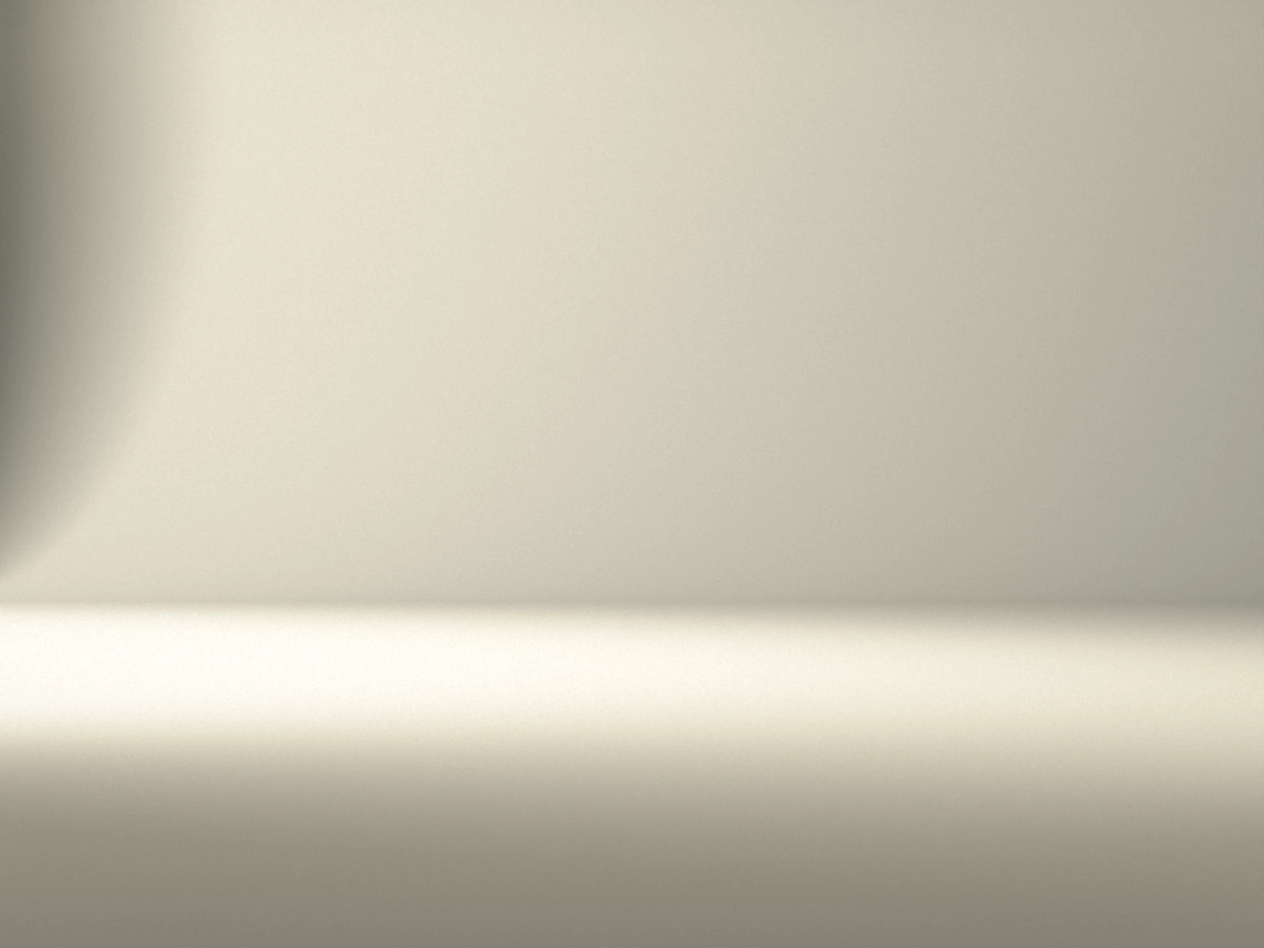
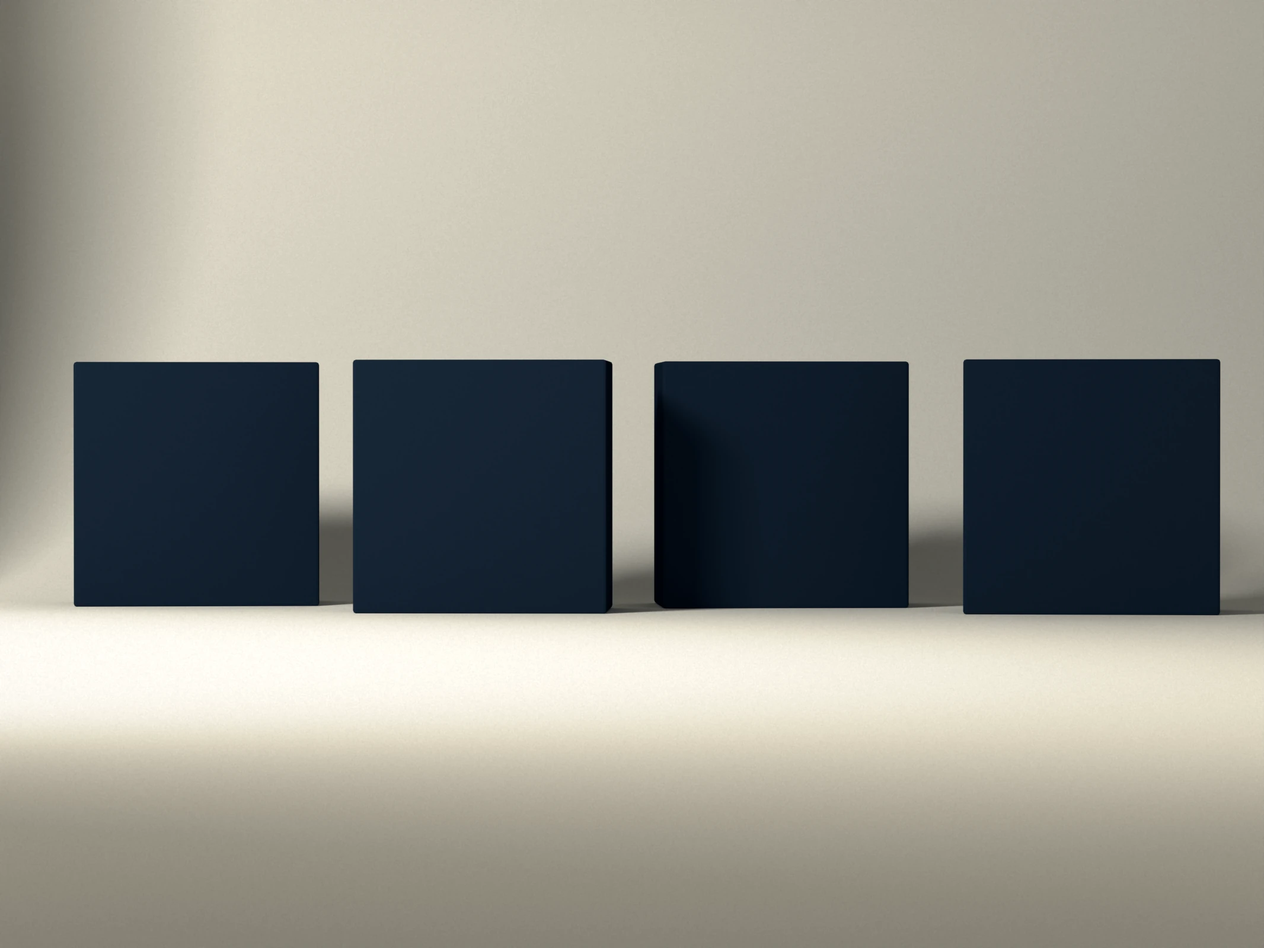
Four Ps: render the movement instead of faking it
The sprite approach had hit its ceiling. It could translate the masses
sideways and nothing else, which is why the motion stayed flat and why
depth kept being cut: measured against Cycles renders of masses actually
moved in depth, transforming a flat sprite scored WORSE than not moving
them at all (1.90 levels vs 1.58 at 0.25m; 20.8 at 1.2m, the smallest move
that reads). So the masses and their shadows are now a 28-frame Cycles
sequence.

That buys three things a sprite could not:

DEPTH. The masses move toward and away from the camera as they repel, and
they now sit at four different depths - a 2.4m spread, about 4.5% of
apparent size - so the row is no longer four identical objects on a rail.
Rotations vary too. Real geometry, not a scaled bitmap.

TRAVEL. They start with 7-11px between faces and end at the approved
spacing, roughly 5x the separation the sprite version could reach without
running the outer masses off the edge of their own plate.

INTERACTING SHADOWS. Every frame is one render, so a mass shadows its
neighbour properly instead of four independent passes being composited and
hoping.

The timing still comes from integrating four like poles on the face gap
rather than from an easing curve, but the range is now wide enough for the
physics to show: faces go 0.10m -> 0.60m, so the force falls ~9x across the
move. FORCE_EXP is 1.4 rather than a true inverse square - at 2.0 the whole
thing is over in the first quarter of the runway. Per-object mobility and
[…]

Changed region(s): [[0.031, 0.375, 1.0, 0.6562]]

diff --git a/assets/kd.js b/assets/kd.js
@@ -186,33 +186,31 @@
 
   // Plate geometry, emitted by the render so the markup and the scroll
   // driver cannot drift from the image they are positioning against.
-  window.KD_PS={"w":2132,"h":1600,"masses":[{"name":"PRODUCT","copy":"What you make.","mass":{"x":99,"y":602,"w":437,"h":435},"shadow":{"x":0,"y":204,"w":2093,"h":1086},"matrix3d":[1.007391,0.005614,0,8e-06,0.001434,1.002004,0,1e-06,0,0,1,0,97.960792,609.016991,0,1],"quad":[[98.0,609.0],[519.4,609.4],[519.7,1028.2],[98.5,1029.3]],"travel":-50.46,"curve":[-0.0,0.0379,0.0751,0.1118,0.148,0.1836,0.2187,0.2533,0.2875,0.3212,0.3544,0.3873,0.4197,0.4518,0.4835,0.5148,0.5457,0.5764,0.6066,0.6366,0.6662,0.6955,0.7246,0.7533,0.7818,0.8099,0.8379,0.8655,0.8929,0.92,0.9469,0.9736,1.0],"phase":0.0,"dscale":0.00465,"ddy":1.45,"dshadow":31.23},{"name":"PRICE","copy":"What you ask.","mass":{"x":603,"y":600,"w":439,"h":440},"shadow":{"x":6,"y":210,"w":2107,"h":1080},"matrix3d":[1.019322,0.005053,0,7e-06,0.001451,1.01439,0,1e-06,0,0,1,0,602.719582,607.717657,0,1],"quad":[[602.7,607.7],[1027.8,608.0],[1027.8,1032.2],[603.0,1033.2]],"travel":-16.63,"curve":[-0.0,0.0299,0.0603,0.091,0.1222,0.1536,0.1852,0.217,0.249,0.281,0.3131,0.3453,0.3774,0.4095,0.4416,0.4737,0.5057,0.5375,0.5693,0.601,0.6326,0.664,0.6953,0.7265,0.7575,0.7884,0.8191,0.8496,0.88,0.9103,0.9404,0.9703,1.0],"phase":0.12,"dscale":-0.00295,"ddy":-0.92,"dshadow":-20.16},{"name":"PLACE","copy":"Where and how it reaches people.","mass":{"x":1095,"y":602,"w":448,"h":434},"shadow":{"x":23,"y":211,"w":2109,"h":1079},"matrix3d":[1.004782,0.00529,0,7e-06,0.001431,0.99966,0,1e-06,0,0,1,0,1111.30807,609.262967,0,1],"quad":[[1111.3,609.3],[1528.6,609.6],[1528.3,1027.6],[1111.3,1028.5]],"travel":16.82,"curve":[0.0,0.0262,0.0534,0.0814,0.1102,0.1397,0.1697,0.2002,0.2311,0.2624,0.2939,0.3257,0.3577,0.3898,0.4221,0.4544,0.4868,0.5192,0.5517,0.5842,0.6166,0.649,0.6814,0.7137,0.7459,0.778,0.81,0.842,0.8738,0.9055,0.9372,0.9686,1.0],"phase":0.07,"dscale":0.00204,"ddy":0.63,"dshadow":13.61},{"name":"PROMOTION","copy":"What you say and signal.","mass":{"x":1595,"y":601,"w":466,"h":438},"shadow":{"x":37,"y":211,"w":2095,"h":1079},"matrix3d":[1.015473,0.00472,0,7e-06,0.001447,1.010838,0,1e-06,0,0,1,0,1626.735594,608.090377,0,1],"quad":[[1626.7,608.1],[2047.6,608.4],[2047.0,1031.2],[1626.4,1032.1]],"travel":50.89,"curve":[0.0,0.0402,0.0795,0.118,0.1556,0.1925,0.2286,0.2641,0.2989,0.3331,0.3667,0.3998,0.4324,0.4644,0.496,0.5271,0.5578,0.588,0.6179,0.6473,0.6764,0.7051,0.7335,0.7615,0.7892,0.8165,0.8436,0.8704,0.8968,0.923,0.9489,0.9746,1.0],"phase":0.02,"dscale":-0.00406,"ddy":-1.26,"dshadow":-27.44}],"anchor":820};
+  window.KD_PS={"w":2132,"h":1600,"n":28,"band":{"x":0,"y":500,"w":2132,"h":720},"anchor":820,"masses":[{"name":"PRODUCT","copy":"What you make."},{"name":"PRICE","copy":"What you ask."},{"name":"PLACE","copy":"Where and how it reaches people."},{"name":"PROMOTION","copy":"What you say and signal."}],"frames":[[[1.00784,0.001433,203.751995,0.007011,1.001476,609.072351,1e-05,1e-06],[0.999722,0.001439,636.4867,-0.003133,1.006032,608.594489,-4e-06,1e-06],[1.008215,0.001436,1073.807998,0.004687,1.003613,608.848262,7e-06,1e-06],[0.990943,0.00144,1512.166691,-0.007835,1.007491,608.441353,-1.1e-05,1e-06]],[[1.006481,0.001431,196.034285,0.007002,1.000126,609.214044,1e-05,1e-06],[0.999722,0.001439,636.4867,-0.003133,1.006032,608.594489,-4e-06,1e-06],[1.008215,0.001436,1073.807998,0.004687,1.003613,608.848262,7e-06,1e-06],[0.991725,0.001444,1517.246471,-0.007841,1.008287,608.357954,-1.1e-05,1e-06]],[[1.005361,0.001429,189.675776,0.006993,0.999013,609.330845,1e-05,1e-06],[0.999722,0.001439,636.4867,-0.003133,1.006032,608.594489,-4e-06,1e-06],[1.008215,0.001436,1073.807998,0.004687,1.003613,608.848262,7e-06,1e-06],[0.993264,0.001443,1527.248201,-0.007853,1.009849,608.193946,-1.1e-05,1e-06]],[[1.004385,0.001428,184.133943,0.006987,0.998043,609.432554,1e-05,1e-06],[0.999722,0.001439,636.4867,-0.003133,1.006032,608.594489,-4e-06,1e-06],[1.007986,0.001435,1074.813305,0.004685,1.003385,608.872151,7e-06,1e-06],[0.994534,0.001447,1535.512025,-0.007863,1.011143,608.058405,-1.1e-05,1e-06]],[[1.003509,0.001426,179.160781,0.00698,0.997172,609.523892,1e-05,1e-06],[0.99983,0.00144,636.223206,-0.003133,1.006142,608.582973,-4e-06,1e-06],[1.007526,0.001434,1076.837771,0.004683,1.002926,608.920217,7e-06,1e-06],[0.99565,0.001449,1542.765713,-0.007872,1.012278,607.939386,-1.1e-05,1e-06]],[[1.002709,0.001425,174.615646,0.006976,0.996376,609.607291,1e-05,1e-06],[1.000463,0.00144,634.684747,-0.003135,1.006778,608.516169,-4e-06,1e-06],[1.007014,0.001433,1079.086273,0.004681,1.002417,608.973575,7e-06,1e-06],[0.996658,0.001449,1549.320986,-0.00788,1.013302,607.831812,-1.1e-05,1e-06]],[[1.001967,0.001424,170.408743,0.00697,0.99564,609.684539,1e-05,1e-06],[1.001386,0.001441,632.443805,-0.003138,1.007707,608.418751,-4e-06,1e-06],[1.006515,0.001433,1081.283944,0.004679,1.00192,609.025788,7e-06,1e-06],[0.997585,0.00145,1555.350413,-0.007888,1.014245,607.732964,-1.1e-05,1e-06]],[[1.001275,0.001423,166.478454,0.006965,0.994952,609.756708,1e-05,1e-06],[1.002343,0.001443,630.120074,-0.003141,1.00867,608.317757,-4e-06,1e-06],[1.006038,0.001433,1083.379065,0.004676,1.001446,609.075499,7e-06,1e-06],[0.998448,0.001452,1560.963027,-0.007894,1.015122,607.64091,-1.1e-05,1e-06]],[[1.000624,0.001423,162.779574,0.006961,0.994306,609.824586,1e-05,1e-06],[1.003269,0.001444,627.869538,-0.003144,1.009602,608.219981,-4e-06,1e-06],[1.005588,0.001432,1085.363882,0.004674,1.000997,609.122634,7e-06,1e-06],[0.999259,0.001453,1566.233932,-0.007901,1.015946,607.554436,-1.1e-05,1e-06]],[[1.000007,0.001422,159.278456,0.006956,0.993693,609.888887,1e-05,1e-06],[1.004148,0.001445,625.73496,-0.003147,1.010486,608.127213,-4e-06,1e-06],[1.00516,0.001431,1087.244115,0.004673,1.000571,609.167266,7e-06,1e-06],[1.000025,0.001452,1571.217768,-0.007907,1.016725,607.47261,-1.1e-05,1e-06]],[[0.999421,0.001421,155.948512,0.006952,0.99311,609.950042,1e-05,1e-06],[1.004978,0.001447,623.719009,-0.003149,1.011322,608.039594,-4e-06,1e-06],[1.004755,0.001431,1089.02904,0.004671,1.000168,609.209609,7e-06,1e-06],[1.000755,0.001455,1575.955584,-0.007912,1.017467,607.394934,-1.1e-05,1e-06]],[[0.998861,0.00142,152.768694,0.006948,0.992553,610.008407,1e-05,1e-06],[1.005766,0.001448,621.804847,-0.003151,1.012115,607.956409,-4e-06,1e-06],[1.004367,0.001429,1090.728315,0.004669,0.999782,609.250021,7e-06,1e-06],[1.00145,0.001457,1580.479529,-0.007918,1.018175,607.32069,-1.1e-05,1e-06]],[[0.998324,0.001419,149.722036,0.006945,0.992019,610.06434,1e-05,1e-06],[1.006516,0.001449,619.982371,-0.003154,1.01287,607.877231,-4e-06,1e-06],[1.003998,0.001429,1092.350835,0.004667,0.999415,609.288573,7e-06,1e-06],[1.002118,0.001457,1584.8154,-0.007923,1.018852,607.249594,-1.1e-05,1e-06]],[[0.997808,0.001418,146.794275,0.006941,0.991507,610.118055,1e-05,1e-06],[1.007233,0.00145,618.242177,-0.003156,1.013591,607.801557,-4e-06,1e-06],[1.003646,0.001429,1093.90448,0.004666,0.999064,609.325409,7e-06,1e-06],[1.002759,0.001459,1588.984164,-0.007928,1.019504,607.181215,-1.1e-05,1e-06]],[[0.997311,0.001418,143.973798,0.006938,0.991014,610.16984,1e-05,1e-06],[1.007918,0.001451,616.575624,-0.003159,1.014282,607.729173,-4e-06,1e-06],[1.003307,0.001429,1095.396111,0.004664,0.998727,609.360814,7e-06,1e-06],[1.003377,0.00146,1593.003104,-0.007933,1.020133,607.11534,-1.1e-05,1e-06]],[[0.996832,0.001417,141.250504,0.006934,0.990538,610.219836,1e-05,1e-06],[1.008577,0.001452,614.977439,-0.00316,1.014943,607.659721,-4e-06,1e-06],[1.00298,0.001429,1096.831574,0.004662,0.998402,609.394932,7e-06,1e-06],[1.003974,0.00146,1596.886708,-0.007938,1.02074,607.051611,-1.1e-05,1e-06]],[[0.996368,0.001416,138.615831,0.006931,0.990076,610.268259,1e-05,1e-06],[1.009208,0.001452,613.443555,-0.003163,1.015578,607.59306,-4e-06,1e-06],[1.002666,0.001428,1098.214427,0.004661,0.998088,609.427762,7e-06,1e-06],[1.004553,0.001461,1600.6473,-0.007942,1.021329,606.989884,-1.1e-05,1e-06]],[[0.995918,0.001416,136.062439,0.006928,0.989629,610.315108,1e-05,1e-06],[1.009818,0.001454,611.962662,-0.003165,1.016192,607.528687,-4e-06,1e-06],[1.002362,0.001428,1099.549499,0.004659,0.997787,609.459448,7e-06,1e-06],[1.005113,0.001462,1604.295557,-0.007947,1.021899,606.930089,-1.1e-05,1e-06]],[[0.995482,0.001415,133.583943,0.006925,0.989195,610.360599,1e-05,1e-06],[1.010408,0.001454,610.530185,-0.003166,1.016785,607.466459,-4e-06,1e-06],[1.002068,0.001427,1100.842381,0.004658,0.997494,609.490132,7e-06,1e-06],[1.005658,0.001462,1607.8405,-0.007951,1.022453,606.871939,-1.1e-05,1e-06]],[[0.995057,0.001414,131.174616,0.006922,0.988774,610.404873,1e-05,1e-06],[1.010979,0.001456,609.141868,-0.003168,1.017361,607.406092,-4e-06,1e-06],[1.001782,0.001426,1102.096505,0.004656,0.99721,609.519958,7e-06,1e-06],[1.006189,0.001464,1611.290262,-0.007956,1.022993,606.815362,-1.1e-05,1e-06]],[[0.994644,0.001414,128.829432,0.006919,0.988364,610.44786,1e-05,1e-06],[1.011534,0.001456,607.794406,-0.00317,1.017919,607.347512,-4e-06,1e-06],[1.001505,0.001426,1103.314666,0.004655,0.996934,609.548855,7e-06,1e-06],[1.006707,0.001467,1614.651833,-0.007959,1.02352,606.760216,-1.1e-05,1e-06]],[[0.994242,0.001413,126.544165,0.006916,0.987964,610.489845,1e-05,1e-06],[1.012073,0.001457,606.48513,-0.003171,1.018461,607.290649,-4e-06,1e-06],[1.001236,0.001425,1104.499533,0.004654,0.996665,609.576964,7e-06,1e-06],[1.007212,0.001464,1617.931566,-0.007963,1.024031,606.706357,-1.1e-05,1e-06]],[[0.993849,0.001413,124.31478,0.006914,0.987574,610.530758,1e-05,1e-06],[1.012596,0.001457,605.214105,-0.003173,1.018988,607.235432,-4e-06,1e-06],[1.000974,0.001425,1105.65352,0.004653,0.996405,609.604359,7e-06,1e-06],[1.007703,0.001466,1621.134671,-0.007967,1.024532,606.653857,-1.1e-05,1e-06]],[[0.993466,0.001412,122.137711,0.006911,0.987193,610.570741,1e-05,1e-06],[1.013106,0.001458,603.974913,-0.003175,1.019501,607.181573,-4e-06,1e-06],[1.000718,0.001425,1106.778534,0.004652,0.99615,609.631109,7e-06,1e-06],[1.008186,0.001468,1624.266232,-0.007971,1.025022,606.602502,-1.1e-05,1e-06]],[[0.993091,0.001412,120.009853,0.006909,0.98682,610.609794,1e-05,1e-06],[1.013604,0.00146,602.765266,-0.003176,1.020003,607.129002,-4e-06,1e-06],[1.000468,0.001425,1107.87648,0.004651,0.995902,609.657145,7e-06,1e-06],[1.008656,0.001467,1627.330823,-0.007975,1.025501,606.552219,-1.1e-05,1e-06]],[[0.992724,0.001411,117.928115,0.006906,0.986455,610.64806,1e-05,1e-06],[1.014091,0.00146,601.583576,-0.003177,1.020492,607.077646,-4e-06,1e-06],[1.000225,0.001424,1108.949138,0.004649,0.995659,609.682608,7e-06,1e-06],[1.009118,0.001466,1630.332385,-0.007978,1.02597,606.502938,-1.1e-05,1e-06]],[[0.992365,0.00141,115.890267,0.006903,0.986098,610.685468,1e-05,1e-06],[1.014567,0.001461,600.427873,-0.003179,1.020971,607.027435,-4e-06,1e-06],[0.999986,0.001423,1109.997905,0.004648,0.995421,609.707499,7e-06,1e-06],[1.009571,0.001467,1633.27422,-0.007982,1.02643,606.45473,-1.1e-05,1e-06]],[[0.992014,0.00141,113.893584,0.006901,0.98575,610.722089,1e-05,1e-06],[1.015033,0.001461,599.296696,-0.00318,1.021439,606.978226,-4e-06,1e-06],[0.999753,0.001422,1111.02418,0.004648,0.995188,609.731889,7e-06,1e-06],[1.010015,0.001468,1636.160013,-0.007985,1.026881,606.40738,-1.1e-05,1e-06]]]};
 
   // ── the four Ps room ─────────────────────────────────────────────────────
-  // A rendered cream room with four blue-black masses, composited from flat
-  // plates: room x shadow (multiply) over mass (alpha), with the labels as
-  // live HTML transformed onto each face. The masses repel on scroll.
+  // A rendered cream room. The masses and their shadows are a Cycles frame
+  // SEQUENCE, not sprites: they move in depth as well as across, they sit at
+  // four different depths rather than in a regimented row, and their shadows
+  // fall on each other because every frame is one render. Sprites could not do
+  // any of that - measured against real depth-moved renders, transforming a
+  // flat sprite was worse than not moving it at all.
   //
-  // kd-core rebuilds #observation on both DOMContentLoaded and window.load,
-  // and the inline homepage script removes the legacy sections that
-  // buildHomepage() guards on - so a second rebuild can replace the runway
-  // with a fresh empty one. Everything below is therefore re-entrant: state
-  // lives in module scope, listeners attach once, and the observer stays
-  // connected for the life of the page so a replaced runway is rebuilt.
-  var psRunway=null,psPlate=null,psBound=false,psTicking=false,psCopies=[];
-
-  // Each mass carries its own travel, progress curve and phase, baked from an
-  // overdamped simulation of four like poles repelling on the face gap - so
-  // they separate fastest when closest, and the four no longer move in
-  // lockstep. Progress runs 0 (tight) -> 1 (the rendered positions). The
-  // plates were rendered fully repelled, so the scroll CONTRACTS toward them
-  // rather than expanding past them: the composition fills its width and
-  // there is no room to the sides. Every offset keeps its sign, so the gaps
-  // open monotonically and the masses never touch by construction.
+  // The room plate is static and carries the whole frame; each sequence frame
+  // is RGBA over it, opaque only where it differs from the room. Two <img>
+  // layers crossfade so 28 frames read as continuous movement.
+  //
+  // kd-core rebuilds #observation on both DOMContentLoaded and window.load, so
+  // a later rebuild can replace the runway with a fresh empty one. Everything
+  // below is re-entrant: state lives in module scope, listeners attach once,
+  // and the observer stays connected for the life of the page.
+  var psRunway=null,psPlate=null,psBound=false,psTicking=false,psCopies=[],
+      psA=null,psB=null,psIA=-1,psIB=-1,psLabels=[],psPreload=[];
 
   function psReduced(){return !!(window.matchMedia&&window.matchMedia('(prefers-reduced-motion: reduce)').matches);}
   function psSmall(){return window.innerWidth<900;}
   function psEsc(s){return String(s).replace(/&/g,'&amp;').replace(/</g,'&lt;');}
+  function psSrc(i){return '/assets/ps-f'+(i<10?'0':'')+i+'.webp';}
 
   function psStaticMarkup(M){
     var h='<div class="ps-static">',k;
@@ -221,24 +219,18 @@
   }
 
   function psStageMarkup(d){
-    var M=d.masses,h='<div class="ps-stage"><div class="ps-plate">'+
-      '<img class="ps-room-img" src="/assets/ps-room.webp" alt="" width="'+d.w+
-      '" height="'+d.h+'" decoding="async">',k,s,m;
-    // every shadow paints before any mass, so a mass occludes its neighbour's
-    // shadow instead of being tinted by it
+    var b=d.band,M=d.masses,k,
+        h='<div class="ps-stage"><div class="ps-plate">'+
+          '<img class="ps-room-img" src="/assets/ps-room.webp" alt="" width="'+d.w+
+          '" height="'+d.h+'" decoding="async">';
+    // two frame layers, crossfaded; both sit exactly on the band the sequence
+    // was rendered from
+    var st='left:'+b.x+'px;top:'+b.y+'px;width:'+b.w+'px;height:'+b.h+'px';
+    h+='<img class="ps-frame" data-ps-l="a" alt="" aria-hidden="true" style="'+st+'">'+
+       '<img class="ps-frame" data-ps-l="b" alt="" aria-hidden="true" style="'+st+'">';
     for(k=0;k<4;k++){
-      s=M[k].shadow;
-      h+='<img class="ps-shadow" data-ps-i="'+k+'" src="/assets/ps-shadow-'+k+'.webp" '+
-         'alt="" aria-hidden="true" decoding="async" style="left:'+s.x+'px;top:'+s.y+
-         'px;width:'+s.w+'px;height:'+s.h+'px">';
-    }
-    for(k=0;k<4;k++){
-      m=M[k].mass;
-      h+='<div class="ps-obj" data-ps-i="'+k+'">'+
-         '<img class="ps-mass" src="/assets/ps-mass-'+k+'.webp" alt="" aria-hidden="true" '+
-         'decoding="async" style="left:'+m.x+'px;top:'+m.y+'px;width:'+m.w+'px;height:'+m.h+'px">'+
-         '<div class="ps-label" style="transform:matrix3d('+M[k].matrix3d.join(',')+')">'+
-         '<h3>'+psEsc(M[k].name)+'</h3><p>'+psEsc(M[k].copy)+'</p></div></div>';
+      h+='<div class="ps-label" data-ps-i="'+k+'"><h3>'+psEsc(M[k].name)+'</h3>'+
+         '<p>'+psEsc(M[k].copy)+'</p></div>';
     }
     return h+'</div></div>';
   }
@@ -252,76 +244,66 @@
     psPlate.style.setProperty('--ps-pw',d.w+'px');
     psPlate.style.setProperty('--ps-ph',d.h+'px');
     // The plate is 2132x1600, so for any viewport wider than 4:3 this resolves
-    // to the WIDTH term: the full horizontal composition is always shown and
-    // only the empty room above and below is ever cropped. The masses cannot
-    // be clipped, at rest or at full spread.
+    // to the WIDTH term: the whole horizontal composition is always shown and
+    // only the empty room above and below is ever cropped.
     var s=Math.max(vw/d.w,vh/d.h);
     psPlate.style.setProperty('--ps-s',s);
-    // Explicit pixel offsets with transform-origin 0 0. A percentage translate
-    // resolves against the element's UNSCALED width, so it cannot centre a
-    // scaled plate.
-    psPlate.style.setProperty('--ps-ox',((vw - d.w*s)/2).toFixed(1)+'px');
-    // Anchor the masses low in frame rather than centring the plate, so the
-    // upper half is clear cream for the copy and the darkest part of the floor
-    // falls below the fold. Clamped so the plate always covers the stage:
-    // without the clamp the anchor can pull the plate down off its own top
-    // edge and expose the bare stage behind it.
-    var oy=vh*0.70 - d.anchor*s;
-    oy=Math.max(Math.min(oy,0),vh - d.h*s);
-    psPlate.style.setProperty('--ps-oy',oy.toFixed(1)+'px');
+    // Explicit pixel offsets with transform-origin 0 0: a percentage translate
+    // resolves against the element's UNSCALED width and cannot centre a scaled
+    // plate. Clamped so the plate always covers the stage.
+    psPlate.style.setProperty('--ps-ox',((vw-d.w*s)/2).toFixed(1)+'px');
+    var oy=vh*0.70-d.anchor*s;
+    psPlate.style.setProperty('--ps-oy',Math.max(Math.min(oy,0),vh-d.h*s).toFixed(1)+'px');
   }
 
-  // smoothstep across the middle of the runway only, so the masses hold still
-  // as the room arrives and again before it leaves: the movement reads as
-  // something happening inside the section, not as a transition into it
   function psRamp(p,a,b){var t=(p-a)/(b-a);return t<0?0:(t>1?1:t*t*(3-2*t));}
 
-  function psCurve(m,p){
-    var c=m.curve,n=c.length,
-        t=(p-m.phase)/(1-m.phase);
-    t=t<0?0:(t>1?1:t);
-    var j=t*(n-1),k=Math.floor(j);
-    if(k>=n-1)return c[n-1];
-    return c[k]+(c[k+1]-c[k])*(j-k);
+  // build a CSS matrix3d from the 8 homography coefficients the render emitted
+  function psMatrix(c){
+    return 'matrix3d('+c[0]+','+c[3]+',0,'+c[6]+','+
+                       c[1]+','+c[4]+',0,'+c[7]+',0,0,1,0,'+
+                       c[2]+','+c[5]+',0,1)';
   }
 
   function psUpdate(){
     psTicking=false;
     if(!psRunway||!psPlate||!psRunway.isConnected||!window.KD_PS)return;
-    var M=window.KD_PS.masses,i;
-    if(psReduced()){
-      for(i=0;i<4;i++){
-        psPlate.style.setProperty('--dx'+i,'0px');
-        psPlate.style.setProperty('--sx'+i,'0px');
-      }
-      return;
-    }
+    var d=window.KD_PS,n=d.n,i;
     var r=psRunway.getBoundingClientRect(),
         travel=r.height-(document.documentElement.clientHeight||1);
     if(travel<=0)travel=1;
     var p=(-r.top)/travel;
     p=p<0?0:(p>1?1:p);
-    // hold at both ends so the movement happens inside the section rather
-    // than as a transition into or out of it
-    var q=(p-0.10)/0.80;
-    q=q<0?0:(q>1?1:q);
-    // the premise reads as the room arrives, the conclusion as it settles
+
     if(psCopies.length===2){
       psCopies[0].style.opacity=(1-psRamp(p,0.20,0.34)).toFixed(3);
       psCopies[1].style.opacity=psRamp(p,0.60,0.74).toFixed(3);
       psCopies[0].classList.toggle('is-on',p<0.34);
       psCopies[1].classList.toggle('is-on',p>=0.60);
     }
-    // Movement is horizontal only. Depth was tried and removed: measured
-    // against Cycles renders of the masses actually moved in depth, a sprite
-    // transform is WORSE than not moving them at all - 1.90 levels vs 1.58 at
-    // 0.25m, and at 1.2m, the smallest move that actually reads, a real depth
-    // change differs from a flat sprite by 20.8 levels. Scaling about the base
-    // does not help (21.7). Depth needs the frames rendered.
+
+    // hold at both ends so the movement happens inside the section rather than
+    // as a transition into or out of it; reduced motion pins the settled frame
+    var ia,ib,t;
+    if(psReduced()){
+      ia=ib=n-1;t=1;                      // one settled frame, nothing fetched
+    }else{
+      var q=Math.max(0,Math.min(1,(p-0.10)/0.80)),f=q*(n-1);
+      ia=Math.floor(f);t=f-ia;
+      if(ia>n-2){ia=n-2;t=1;}
+      ib=ia+1;
+    }
+
+    if(ia!==psIA){psA.src=psSrc(ia);psIA=ia;}
+    if(ib!==psIB){psB.src=psSrc(ib);psIB=ib;}
+    psB.style.opacity=t.toFixed(3);
+
+    // the labels ride the faces, interpolated between the two frames in play
+    var ca=d.frames[ia],cb=d.frames[ib];
     for(i=0;i<4;i++){
-      var m=M[i],back=1-psCurve(m,q),dx=(-m.travel*back).toFixed(2)+'px';
-      psPlate.style.setProperty('--dx'+i,dx);
-      psPlate.style.setProperty('--sx'+i,dx);
+      var m=[],j;
+      for(j=0;j<8;j++)m.push(ca[i][j]+(cb[i][j]-ca[i][j])*t);
+      psLabels[i].style.transform=psMatrix(m);
     }
   }
 
@@ -329,17 +311,30 @@
 
   function psBuild(){
     var runway=document.querySelector('.ps-runway'),d=window.KD_PS;
-    if(!runway||!d||!d.masses||d.masses.length!==4)return false;
+    if(!runway||!d||!d.frames||d.frames.length!==d.n)return false;
     if(runway===psRunway&&runway.dataset.psWired==='1')return true;
     runway.dataset.psWired='1';
     psRunway=runway;
-    // Below 900px the stage is never built, so none of the plates are even
-    // requested. display:none would still have fetched them in most browsers.
+    // Below 900px the stage is never built, so not one frame is requested.
+    // display:none would still have fetched them in most browsers.
     psRunway.innerHTML=(psSmall()?'':psStageMarkup(d))+psStaticMarkup(d.masses);
     psPlate=psRunway.querySelector('.ps-plate');
-    psCopies=[];
+    psIA=psIB=-1;
+    psCopies=[];psLabels=[];
     var stage=psRunway.querySelector('.ps-stage');
     if(stage){
+      psA=stage.querySelector('[data-ps-l="a"]');
+      psB=stage.querySelector('[data-ps-l="b"]');
+      psLabels=[].slice.call(stage.querySelectorAll('.ps-label'));
+      // Fetch every frame up front. They are small and the section is only a
+      // screen or two down the page; without this the sequence would tear as
+      // the reader scrolls into frames that have not arrived.
+      if(!psPreload.length){
+        // reduced motion shows one settled frame and never animates, so it
+        // must not pull the other 27 down the wire
+        var k0=psReduced()?d.n-1:0;
+        for(var k=k0;k<d.n;k++){var im=new Image();im.src=psSrc(k);psPreload.push(im);}
+      }
       // lift the copy out of the flow and into the room
       var obs=psRunway.closest('#observation')||document;
       ['.premise-lead','.opening-copy'].forEach(function(sel){
@@ -363,19 +358,16 @@
     psBound=true;
     window.addEventListener('scroll',psRequest,{passive:true});
     window.addEventListener('resize',function(){
-      // crossing the breakpoint changes whether the stage exists at all
       var wantStage=!psSmall();
       if(psRunway&&window.KD_PS&&wantStage!==!!psPlate){
-        psRunway.innerHTML=(wantStage?psStageMarkup(window.KD_PS):'')+
-                           psStaticMarkup(window.KD_PS.masses);
-        psPlate=psRunway.querySelector('.ps-plate');
+        psRunway.dataset.psWired='';psRunway=null;psBuild();
       }
       psFit();psRequest();
     });
     window.addEventListener('load',function(){setTimeout(psBuild,0);});
-    // Stays connected for the life of the page on purpose: if a later rebuild
-    // swaps in a fresh runway, psBuild repopulates it. When the runway is
-    // already current the callback is one querySelector and a flag check.
+    // Stays connected on purpose: if a later rebuild swaps in a fresh runway,
+    // psBuild repopulates it. When the runway is current the callback is one
+    // querySelector and a flag check.
     try{
       new MutationObserver(psBuild).observe(
         document.querySelector('main')||document.body,{childList:true,subtree:true});

diff --git a/index.html b/index.html
@@ -7,7 +7,7 @@
 <style>
 :root{--ink:#24222B!important;--paper:#FFFFFF!important;--border:#504D57!important;--border-inner:#3E3B45!important}.masthead-date{color:#FFFFFF!important}.kd-review-grid{background:#24222B!important}.home-paper{background:#FFFFFF!important}.home-paper .hero-line,.home-paper .section-title,.home-paper h1,.home-paper h2{color:#24222B!important}
 .product-orientation{display:flex!important;align-items:center!important;justify-content:flex-end!important;gap:20px!important;margin-bottom:48px!important;font-family:"IBM Plex Mono",monospace!important;font-size:15px!important;font-weight:400!important;line-height:1!important;letter-spacing:.12em!important;color:var(--text-secondary)!important}.product-orientation:before{display:block!important;content:""!important;flex:1!important;height:1px!important;background:var(--border)!important}.product-orientation>span:first-child{display:none!important}.product-orientation>span:last-child{white-space:nowrap!important}
-#observation{padding-bottom:96px!important}.ps-runway{position:relative;width:var(--ps-vw,100vw);margin-left:calc(50% - var(--ps-vw,100vw)/2);height:var(--ps-runway-h,300vh);margin-top:72px}.ps-stage{position:sticky;top:0;height:100vh;overflow:hidden;background:#EFEDE4;isolation:isolate}.ps-plate{position:absolute;left:0;top:0;width:var(--ps-pw,2132px);height:var(--ps-ph,1600px);transform-origin:0 0;transform:translate(var(--ps-ox,0px),var(--ps-oy,0px)) scale(var(--ps-s,1))}.ps-room-img{position:absolute;inset:0;width:100%;height:100%;display:block}.ps-shadow{position:absolute;display:block;mix-blend-mode:multiply;will-change:transform;transform:translate3d(var(--sx,0px),0,0)}.ps-obj{position:absolute;inset:0;will-change:transform;transform:translate3d(var(--dx,0px),0,0)}.ps-mass{position:absolute;display:block}.ps-label{position:absolute;left:0;top:0;width:420px;height:420px;transform-origin:0 0;box-sizing:border-box;padding:47.5px 43.8px;color:#E7E4DA}.ps-label h3{margin:0;font-family:"Space Grotesk",sans-serif;font-size:53px;font-weight:500;line-height:1.05;letter-spacing:-.03em;color:inherit}.ps-label p{margin:22px 0 0;font-family:"Space Grotesk",sans-serif;font-size:27.4px;font-weight:400;line-height:1.42;color:inherit}.ps-copy{position:absolute;left:0;right:0;top:0;height:42%;display:flex;align-items:flex-end;padding:0 var(--section-pad-h,120px) 3%;box-sizing:border-box;opacity:0;pointer-events:none}.ps-copy.is-on{pointer-events:auto}.ps-copy .home-copy{margin-top:0}.ps-static{display:none}.ps-static>div{border-top:1px solid var(--ink);padding:20px 0 24px}.ps-static h3{margin:0 0 8px;font-family:"Space Grotesk",sans-serif;font-size:25px;font-weight:500;line-height:1.05;letter-spacing:-.03em;color:var(--ink)}.ps-static p{margin:0;font-family:"Space Grotesk",sans-serif;font-size:15px;line-height:1.42;color:#44413c}@media(max-width:900px){.ps-runway{width:auto!important;margin-left:0!important;height:auto!important;margin-top:40px}.ps-stage{display:none}.ps-static{display:block}}@media(prefers-reduced-motion:reduce) and (min-width:901px){.ps-runway{height:100vh!important}.ps-shadow,.ps-obj{transform:none!important;will-change:auto}.ps-static{display:none}}.ps-obj[data-ps-i="0"]{--dx:var(--dx0,0px)}.ps-shadow[data-ps-i="0"]{--sx:var(--sx0,0px)}.ps-obj[data-ps-i="1"]{--dx:var(--dx1,0px)}.ps-shadow[data-ps-i="1"]{--sx:var(--sx1,0px)}.ps-obj[data-ps-i="2"]{--dx:var(--dx2,0px)}.ps-shadow[data-ps-i="2"]{--sx:var(--sx2,0px)}.ps-obj[data-ps-i="3"]{--dx:var(--dx3,0px)}.ps-shadow[data-ps-i="3"]{--sx:var(--sx3,0px)}.kd-chapter-marker{display:flex;align-items:center;gap:20px;width:100%;box-sizing:border-box;font-family:"IBM Plex Mono",monospace;font-size:15px;font-weight:400;line-height:1;letter-spacing:.12em;text-transform:uppercase}.kd-chapter-marker:before{content:"";display:block;flex:1;height:1px;background:currentColor;opacity:.45}.kd-chapter-marker span{white-space:nowrap}.kd-premise-marker{color:#24222B;margin-bottom:48px}.kd-case-marker{grid-column:1/-1;color:#FFFFFF;margin-bottom:34px}.kd-case-headline{grid-column:1/-1;margin:0 0 56px;font-family:"Space Grotesk",sans-serif;font-weight:500;line-height:.95;letter-spacing:-.045em;color:#FFFFFF;text-transform:uppercase;white-space:nowrap}.kd-case-conclusion{grid-column:1/-1;margin:70px 0 0;font-family:"Space Grotesk",sans-serif;font-weight:500;line-height:.98;letter-spacing:-.04em;color:#FFFFFF;text-transform:uppercase;white-space:nowrap}.kd-case-actions{grid-column:1/-1;display:grid;grid-template-columns:1fr 1fr;gap:14px;margin-top:48px}.kd-case-action{display:flex;align-items:center;justify-content:space-between;box-sizing:border-box;padding:18px 20px;border:1px solid rgba(255,255,255,.72);font-family:"Space Grotesk",sans-serif;font-size:18px;font-weight:700;line-height:1;color:#FFFFFF;text-decoration:none}.kd-case-action-arrow{font-size:24px;font-weight:400;line-height:1}
+#observation{padding-bottom:96px!important}.ps-runway{position:relative;width:var(--ps-vw,100vw);margin-left:calc(50% - var(--ps-vw,100vw)/2);height:var(--ps-runway-h,300vh);margin-top:72px}.ps-stage{position:sticky;top:0;height:100vh;overflow:hidden;background:#EFEDE4;isolation:isolate}.ps-plate{position:absolute;left:0;top:0;width:var(--ps-pw,2132px);height:var(--ps-ph,1600px);transform-origin:0 0;transform:translate(var(--ps-ox,0px),var(--ps-oy,0px)) scale(var(--ps-s,1))}.ps-room-img{position:absolute;inset:0;width:100%;height:100%;display:block}.ps-frame{position:absolute;display:block}.ps-frame[data-ps-l="a"]{opacity:1}.ps-label{position:absolute;left:0;top:0;width:420px;height:420px;transform-origin:0 0;box-sizing:border-box;padding:47.5px 43.8px;color:#E7E4DA}.ps-label h3{margin:0;font-family:"Space Grotesk",sans-serif;font-size:53px;font-weight:500;line-height:1.05;letter-spacing:-.03em;color:inherit}.ps-label p{margin:22px 0 0;font-family:"Space Grotesk",sans-serif;font-size:27.4px;font-weight:400;line-height:1.42;color:inherit}.ps-copy{position:absolute;left:0;right:0;top:0;height:42%;display:flex;align-items:flex-end;padding:0 var(--section-pad-h,120px) 3%;box-sizing:border-box;opacity:0;pointer-events:none}.ps-copy.is-on{pointer-events:auto}.ps-copy .home-copy{margin-top:0}.ps-static{display:none}.ps-static>div{border-top:1px solid var(--ink);padding:20px 0 24px}.ps-static h3{margin:0 0 8px;font-family:"Space Grotesk",sans-serif;font-size:25px;font-weight:500;line-height:1.05;letter-spacing:-.03em;color:var(--ink)}.ps-static p{margin:0;font-family:"Space Grotesk",sans-serif;font-size:15px;line-height:1.42;color:#44413c}@media(max-width:900px){.ps-runway{width:auto!important;margin-left:0!important;height:auto!important;margin-top:40px}.ps-stage{display:none}.ps-static{display:block}}@media(prefers-reduced-motion:reduce) and (min-width:901px){.ps-runway{height:100vh!important}.ps-shadow,  .ps-static{display:none}}.kd-chapter-marker{display:flex;align-items:center;gap:20px;width:100%;box-sizing:border-box;font-family:"IBM Plex Mono",monospace;font-size:15px;font-weight:400;line-height:1;letter-spacing:.12em;text-transform:uppercase}.kd-chapter-marker:before{content:"";display:block;flex:1;height:1px;background:currentColor;opacity:.45}.kd-chapter-marker span{white-space:nowrap}.kd-premise-marker{color:#24222B;margin-bottom:48px}.kd-case-marker{grid-column:1/-1;color:#FFFFFF;margin-bottom:34px}.kd-case-headline{grid-column:1/-1;margin:0 0 56px;font-family:"Space Grotesk",sans-serif;font-weight:500;line-height:.95;letter-spacing:-.045em;color:#FFFFFF;text-transform:uppercase;white-space:nowrap}.kd-case-conclusion{grid-column:1/-1;margin:70px 0 0;font-family:"Space Grotesk",sans-serif;font-weight:500;line-height:.98;letter-spacing:-.04em;color:#FFFFFF;text-transform:uppercase;white-space:nowrap}.kd-case-actions{grid-column:1/-1;display:grid;grid-template-columns:1fr 1fr;gap:14px;margin-top:48px}.kd-case-action{display:flex;align-items:center;justify-content:space-between;box-sizing:border-box;padding:18px 20px;border:1px solid rgba(255,255,255,.72);font-family:"Space Grotesk",sans-serif;font-size:18px;font-weight:700;line-height:1;color:#FFFFFF;text-decoration:none}.kd-case-action-arrow{font-size:24px;font-weight:400;line-height:1}
 .kd-review-grid{background:#24222B;padding:120px;display:grid;grid-template-columns:repeat(3,minmax(0,1fr));gap:14px}.kd-review-card{position:relative;aspect-ratio:2/3;overflow:hidden;border-radius:12px;background:#171717;color:#EFEDE4;isolation:isolate}.kd-review-card img{position:absolute;inset:0;width:100%;height:100%;object-fit:cover;transform:scale(1.002);filter:none;opacity:1;transition:none}.kd-review-shade{position:absolute;inset:0;background:linear-gradient(to bottom,rgba(13,13,12,.08) 0%,rgba(13,13,12,.02) 48%,rgba(13,13,12,.30) 100%);transition:background .65s cubic-bezier(.2,.8,.2,1);z-index:1}.kd-review-topic{position:absolute;z-index:4;top:18px;left:18px;display:flex;align-items:center;gap:12px;font-family:"IBM Plex Mono",monospace;font-size:15px;line-height:1;letter-spacing:.12em;color:#EFEDE4;text-transform:uppercase}.kd-review-topic:before{content:"";width:15px;height:15px;flex:0 0 15px;background:#FFFF00}.kd-review-panel{position:absolute;z-index:3;left:18px;right:18px;bottom:18px;min-height:74px;padding:18px;border:1px solid rgba(255,255,255,.48);border-radius:12px;background:rgba(20,20,20,.38);backdrop-filter:blur(12px);-webkit-backdrop-filter:blur(12px);overflow:hidden;transition:min-height .65s cubic-bezier(.2,.8,.2,1),background .65s cubic-bezier(.2,.8,.2,1)}.kd-review-card h2{position:relative;margin:0;font-family:"Space Grotesk",sans-serif;font-size:clamp(19px,1.55vw,29px);font-weight:500;line-height:1.05;letter-spacing:-.03em;color:#fff}.kd-review-copy{max-height:0;margin-top:0;font-family:"Space Grotesk",sans-serif;font-size:clamp(12px,.82vw,15px);line-height:1.42;color:#EFEDE4;opacity:0;transform:translateY(10px);overflow:hidden;transition:max-height .65s cubic-bezier(.2,.8,.2,1),opacity .45s ease,transform .55s cubic-bezier(.2,.8,.2,1),margin-top .55s ease}.kd-review-copy strong{color:#fff;font-weight:700}.kd-review-source{font-family:"IBM Plex Mono",monospace;font-size:.78em;line-height:1.5;letter-spacing:.04em;color:rgba(239,237,228,.72)}.kd-review-card:nth-of-type(4) .kd-review-copy strong{line-height:1.65}.kd-review-cta{display:flex;align-items:center;justify-content:space-between;width:100%;box-sizing:border-box;padding:10px 12px;border:1px solid rgba(255,255,255,.72);color:#fff;text-decoration:none;font-weight:700}.kd-review-cta-arrow{font-size:18px;font-weight:400;line-height:1}.kd-balance-chart{display:grid;grid-template-columns:1fr 1fr;gap:0;margin-bottom:18px}.kd-balance-side{padding-right:14px}.kd-balance-side+.kd-balance-side{padding-left:14px;padding-right:0;border-left:1px solid rgba(255,255,255,.48)}.kd-balance-label{display:block;margin-bottom:6px;color:#fff;font-weight:700}.kd-balance-close{padding-top:14px;border-top:1px solid rgba(255,255,255,.48)}.kd-review-card.is-active img,.kd-review-card:hover img,.kd-review-card:focus-visible img{filter:none;opacity:1;transform:scale(1.002)}.kd-review-card.is-active .kd-review-shade,.kd-review-card:hover .kd-review-shade,.kd-review-card:focus-visible .kd-review-shade{background:rgba(13,13,12,.34)}.kd-review-card.is-active .kd-review-panel,.kd-review-card:hover .kd-review-panel,.kd-review-card:focus-visible .kd-review-panel{min-height:58%;background:rgba(20,20,20,.58)}.kd-review-card.is-active .kd-review-copy,.kd-review-card:hover .kd-review-copy,.kd-review-card:focus-visible .kd-review-copy{max-height:420px;margin-top:18px;opacity:1;transform:translateY(0)}@media(max-width:1000px){.kd-review-grid{padding:64px;grid-template-columns:repeat(2,minmax(0,1fr))}}@media(max-width:767px){#observation{padding-bottom:19.2vw!important}.kd-review-grid{padding:24px;grid-template-columns:1fr;gap:12px}.kd-review-card h2{font-size:25px}.kd-review-copy{font-size:15px}.kd-review-card.is-active .kd-review-panel{min-height:54%}.kd-chapter-marker{font-size:13px;gap:14px}.kd-case-marker{margin-bottom:22px}.kd-case-headline{margin-bottom:36px}.kd-case-conclusion{margin-top:42px;white-space:normal}.kd-case-actions{grid-template-columns:1fr;margin-top:32px}}@media(prefers-reduced-motion:reduce){.kd-review-card img,.kd-review-shade,.kd-review-panel,.kd-review-copy{transition:none}}
 
 </style>
